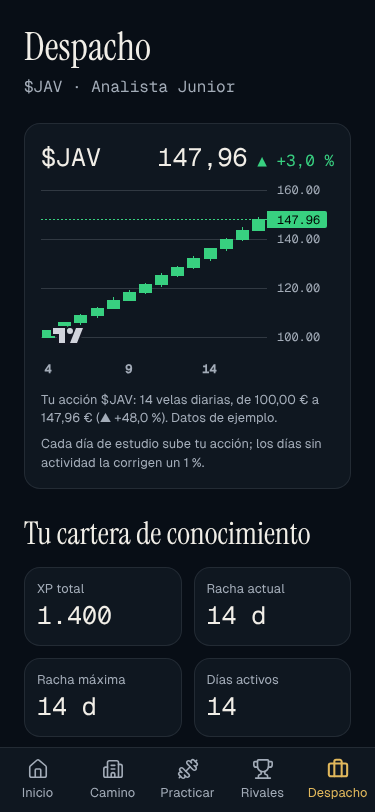
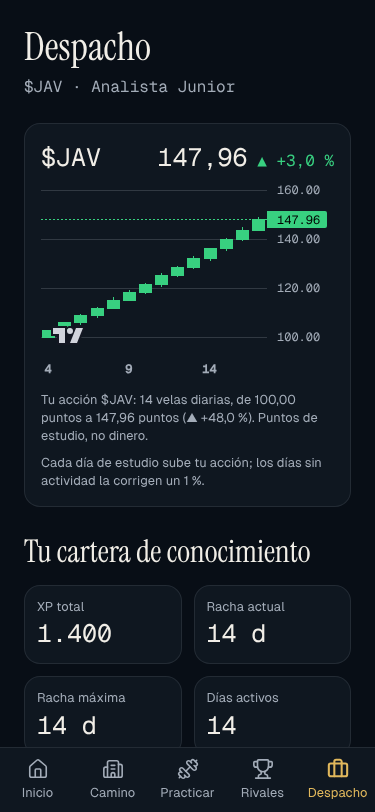
fix: peor caso de las pantallas de la Fase 2 (break-ui)
Compartir sin desbordar a 320 px, tu acción descrita en puntos (no euros ni datos de ejemplo), precio sin partirse, plurales reales y regresión e2e de peor caso.

Claude-Session: https://claude.ai/code/session_01CVegj8TkHSCjsDpifGKGPx

diff --git a/e2e/peor-caso.spec.ts b/e2e/peor-caso.spec.ts
@@ -1,0 +1,131 @@
+import { randomUUID } from 'node:crypto';
+import { mkdirSync } from 'node:fs';
+import { expect, test, type Page } from '@playwright/test';
+import { completeOnboarding } from './solver';
+
+/* Tarea 2.8 (break-ui): el peor caso realista entra por la misma frontera que los datos reales (una copia
+   importada) y recorre las pantallas nuevas de la Fase 2 a 320 px. Las capturas quedan en docs/capturas/2.8. */
+
+const ev = (type: string, payload: object, createdAt: string) => ({
+  id: randomUUID(),
+  type,
+  createdAt,
+  deviceId: 'test',
+  schemaVersion: 1,
+  tz: 'Europe/Madrid',
+  payload,
+});
+
+/** 400 días seguidos con mucho XP, iniciales anchas de 6 letras, conceptos de nombre largo fallados y sesiones de 60 min. */
+function worstCase(): string {
+  const day0 = Date.now() - 400 * 86_400_000;
+  const events = [
+    ev('settings_changed', { key: 'onboarded', value: true }, new Date(day0).toISOString()),
+    ev(
+      'settings_changed',
+      { key: 'tickerInitials', value: 'WMWMWM' },
+      new Date(day0).toISOString(),
+    ),
+  ];
+  for (let d = 0; d < 400; d++) {
+    const at = (m: number) => new Date(Date.now() - d * 86_400_000 - m * 60_000).toISOString();
+    events.push(ev('lesson_completed', { lessonId: 'n0-u1-l1', xp: 380, accuracy: 0.33 }, at(30)));
+    if (d < 20) {
+      const sid = randomUUID();
+      events.push(
+        ev(
+          'session_started',
+          {
+            sessionId: sid,
+            day: at(200).slice(0, 10),
+            minutes: 20,
+            blocks: [{ kind: 'briefing' }],
+          },
+          at(200),
+        ),
+        ev('session_completed', { sessionId: sid }, at(120)),
+      );
+      for (const [i, c] of ['fiscalidad-avanzada', 'ma-completo', 'valoracion-sectores'].entries())
+        events.push(
+          ev(
+            'exercise_answered',
+            {
+              exerciseId: `n0-u1-l1-e${i + 1}`,
+              lessonId: 'n0-u1-l1',
+              conceptIds: [c],
+              correct: d % 3 === 0,
+              timeMs: 4000,
+              xp: 0,
+              source: 'lesson',
+            },
+            at(60 + i),
+          ),
+        );
+    }
+  }
+  return JSON.stringify({
+    format: 'compuesto-backup',
+    version: 1,
+    exportedAt: new Date().toISOString(),
+    events,
+    content_reports: [],
+  });
+}
+
+const overflow = (page: Page) =>
+  page.evaluate(() => document.documentElement.scrollWidth - document.documentElement.clientWidth);
+
+test('peor caso a 320 px: Inicio, Rivales, Despacho y Compartir sin desbordar', async ({
+  page,
+}) => {
+  test.setTimeout(180_000);
+  await page.emulateMedia({ reducedMotion: 'reduce' });
+  await page.setViewportSize({ width: 320, height: 720 });
+  await completeOnboarding(page);
+  await page.goto('/#/despacho/ajustes');
+  await page.setInputFiles('input[type="file"]', {
+    name: 'peor.json',
+    mimeType: 'application/json',
+    buffer: Buffer.from(worstCase()),
+  });
+  await page.getByRole('button', { name: 'Reemplazar mi progreso' }).click();
+  await expect(page.getByText('Copia importada.')).toBeVisible({ timeout: 90_000 });
+  mkdirSync('docs/capturas/2.8', { recursive: true });
+  for (const [hash, name] of [
+    ['/#/', 'inicio'],
+    ['/#/rivales', 'rivales'],
+    ['/#/despacho', 'despacho'],
+    ['/#/despacho/compartir', 'compartir'],
+  ] as const) {
+    await page.goto(hash);
+    await page.reload();
+    await expect(page.getByRole('navigation', { name: 'Navegación principal' })).toBeVisible();
+    await page.waitForTimeout(800);
+    await page.screenshot({ path: `docs/capturas/2.8/peor-caso-${name}-320.png`, fullPage: true });
+    expect(await overflow(page), `${name}: desbordamiento horizontal`).toBeLessThanOrEqual(0);
+  }
+  // ritmo alto pero constante: la liga se adapta a tu media, así que asciendes al principio y luego te estabilizas
+  await page.goto('/#/rivales');
+  await expect(page.getByTestId('division')).toContainText(/División (Plata|Oro|Platino)/);
+  await expect(page.getByTestId('weekly-close')).toBeVisible();
+  // conceptos de nombre largo listados enteros (sin truncar)
+  await page.goto('/#/despacho');
+  await expect(page.getByText('Fiscalidad avanzada (720/721, doble imposición)')).toBeVisible();
+  // tu acción se describe en puntos, nunca en euros ni como «datos de ejemplo»
+  const stock = page.getByTestId('my-stock');
+  await expect(stock).toContainText('puntos');
+  await expect(stock).not.toContainText('€');
+  await expect(stock).not.toContainText('Datos de ejemplo');
+  // el precio nunca se parte por la mitad: una sola línea
+  const price = page.getByTestId('stock-price');
+  const box = await price.boundingBox();
+  const lh = await price.evaluate((el) => parseFloat(getComputedStyle(el).lineHeight));
+  expect(box!.height).toBeLessThanOrEqual(lh * 1.2);
+  // la tarjeta con Leyenda, racha de 400 y XP de seis cifras
+  await page.goto('/#/despacho/compartir');
+  const [download] = await Promise.all([
+    page.waitForEvent('download', { timeout: 30_000 }),
+    page.getByRole('button', { name: 'Descargar PNG' }).click(),
+  ]);
+  await download.saveAs('docs/capturas/2.8/peor-caso-tarjeta.png');
+});

diff --git a/src/components/CandleChart.tsx b/src/components/CandleChart.tsx
@@ -15,6 +15,10 @@ interface Props {
   candles: Candle[];
   label: string;
   height?: number;
+  /** Cómo se leen los precios en la descripción textual (por defecto, euros). */
+  formatValue?: (n: number) => string;
+  /** Nota final de la descripción; por defecto avisa de que son datos de ejemplo. Cadena vacía para omitirla. */
+  note?: string;
 }
 
 const cssVar = (name: string) =>
@@ -37,7 +41,13 @@ const chartColor = (name: string) => {
 };
 
 /** Velas con lightweight-charts. Descripción textual para lector de pantalla (CLAUDE.md §10). */
-export function CandleChart({ candles, label, height = 240 }: Props) {
+export function CandleChart({
+  candles,
+  label,
+  height = 240,
+  formatValue = formatEur,
+  note = 'Datos de ejemplo.',
+}: Props) {
   const ref = useRef<HTMLDivElement>(null);
   const chartRef = useRef<IChartApi | null>(null);
   const { theme } = useTheme();
@@ -86,7 +96,7 @@ export function CandleChart({ candles, label, height = 240 }: Props) {
   const pct = first && last ? ((last.close - first.open) / first.open) * 100 : 0;
   const summary =
     first && last
-      ? `${label}: ${candles.length} velas diarias, de ${formatEur(first.open)} a ${formatEur(last.close)} (${formatDelta(pct)}). Datos de ejemplo.`
+      ? `${label}: ${candles.length} velas diarias, de ${formatValue(first.open)} a ${formatValue(last.close)} (${formatDelta(pct)}).${note ? ` ${note}` : ''}`
       : label;
 
   return (

diff --git a/src/components/StockPanel.tsx b/src/components/StockPanel.tsx
@@ -23,13 +23,13 @@ export function StockPanel({
       className="bg-surface-1 border-line grid min-w-0 grid-cols-[minmax(0,1fr)] gap-2 rounded-[var(--radius-md)] border p-4"
       data-testid="my-stock"
     >
-      <div className="flex items-baseline justify-between gap-3">
+      <div className="flex flex-wrap items-baseline justify-between gap-x-3 gap-y-1">
         <h2 id="stock-title" className="text-xl" style={{ fontFamily: 'var(--font-mono)' }}>
           {stock.ticker}
         </h2>
         {candles.length > 0 && (
-          <p data-num className="min-w-0 text-right break-words">
-            <span className="text-xl break-all" data-testid="stock-price">
+          <p data-num className="ml-auto text-right whitespace-nowrap">
+            <span className="text-xl" data-testid="stock-price">
               {formatNumber(stock.price, 2)}
             </span>{' '}
             <span className={up ? 'text-bull' : 'text-bear'}>
@@ -46,6 +46,8 @@ export function StockPanel({
             <CandleChart
               candles={candles}
               label={t('stock.label', { ticker: stock.ticker })}
+              formatValue={(n) => t('stock.points', { n: formatNumber(n, 2) })}
+              note={t('stock.note')}
               height={height}
             />
           </Suspense>

diff --git a/src/features/share/Compartir.tsx b/src/features/share/Compartir.tsx
@@ -89,7 +89,7 @@ export function Compartir({ data }: { data: AppData }) {
       <h1 className="text-3xl">{t('share.title')}</h1>
       <p className="text-text-2 text-sm">{t('share.intro')}</p>
 
-      <fieldset className="grid gap-2">
+      <fieldset className="grid min-w-0 gap-2">
         <legend className="mb-1 text-lg">{t('share.format')}</legend>
         <div role="radiogroup" aria-label={t('share.format')} className="flex flex-wrap gap-2">
           {CARD_FORMATS.map((f) => (
@@ -105,7 +105,7 @@ export function Compartir({ data }: { data: AppData }) {
           ))}
         </div>
       </fieldset>
-      <fieldset className="grid gap-2">
+      <fieldset className="grid min-w-0 gap-2">
         <legend className="mb-1 text-lg">{t('share.style')}</legend>
         <div role="radiogroup" aria-label={t('share.style')} className="flex flex-wrap gap-2">
           {CARD_STYLES.map((s) => (
@@ -122,7 +122,7 @@ export function Compartir({ data }: { data: AppData }) {
         </div>
       </fieldset>
 
-      <div ref={box} className="w-full max-w-sm justify-self-center">
+      <div ref={box} className="w-full max-w-sm min-w-0 justify-self-center">
         <div
           role="img"
           aria-label={summary}

diff --git a/src/features/practicar/Rivales.tsx b/src/features/practicar/Rivales.tsx
@@ -43,7 +43,7 @@ function Row({ row, index, animate }: { row: StandingRow; index: number; animate
       </span>
       <span className="grid min-w-0 flex-1">
         <span className={row.me ? 'font-semibold' : ''}>{row.me ? t('rivals.you') : row.name}</span>
-        {p && <span className="text-text-2 truncate text-xs">{t(`rivals.personality.${p}`)}</span>}
+        {p && <span className="text-text-2 text-xs">{t(`rivals.personality.${p}`)}</span>}
       </span>
       <span className="grid justify-items-end text-sm">
         <span data-num>{t('rivals.xp', { xp: formatNumber(row.xp) })}</span>

diff --git a/tests/screens.test.tsx b/tests/screens.test.tsx
@@ -99,7 +99,7 @@ describe('pantallas principales', () => {
     expect(screen.getByText('Precisión').nextSibling).toHaveTextContent('50 %');
     expect(screen.getByText('$JAV ·', { exact: false })).toBeInTheDocument();
     const failed = screen.getByRole('heading', { name: 'Ejercicios más fallados' }).parentElement!;
-    expect(failed).toHaveTextContent('1 fallo(s) en 1 intento(s)');
+    expect(failed).toHaveTextContent('1 fallo en 1 intento');
     expect(screen.getByRole('link', { name: 'Glosario' })).toHaveAttribute(
       'href',
       '#/despacho/glosario',

diff --git a/src/features/despacho/Despacho.tsx b/src/features/despacho/Despacho.tsx
@@ -144,7 +144,8 @@ export function Despacho({ data }: { data: AppData }) {
                   <p>{info?.prompt ?? f.exerciseId}</p>
                   <p className="text-text-2" data-num>
                     {info?.where ? `${info.where} · ` : ''}
-                    {f.fails} fallo(s) en {f.attempts} intento(s)
+                    {f.fails} {f.fails === 1 ? 'fallo' : 'fallos'} en {f.attempts}{' '}
+                    {f.attempts === 1 ? 'intento' : 'intentos'}
                   </p>
                 </li>
               );

diff --git a/playwright.config.ts b/playwright.config.ts
@@ -57,6 +57,7 @@ export default defineConfig({
         'compartir.spec.ts',
         'rivales.spec.ts',
         'despliegue.spec.ts',
+        'peor-caso.spec.ts',
       ],
       use: { baseURL: 'http://localhost:4173', launchOptions },
     },

diff --git a/DECISIONES.md b/DECISIONES.md
@@ -292,3 +292,13 @@ Un subagente nuevo solo se registra al reiniciar Claude Code, así que la prueba
 - **Rendimiento Lighthouse móvil 79–83 (< 90):** criterio de aceptación **no cumplido**; es la deuda de la Fase 1 (arranque ≈215 KB gz). Medir en el despliegue real antes de decidir si merece la pena la palanca (zod/mini, i18n propio…).
 - **Pasos de cuenta Cloudflare:** en `docs/DESPLIEGUE.md`; la checklist (copia, instalación en móvil, .ics) la marca Javier en su dispositivo.
 - Pendiente de la revisión de cierre de fase (skills `review-animations`, `animation-performance`, `break-ui`, `/impeccable harden`): ver informe.
+
+## 2.8 — break-ui de las pantallas nuevas de la Fase 2
+Peor caso realista importado como copia (frontera de datos real, no el componente): 400 días con 380 XP/día, iniciales anchas de 6 letras (`WMWMWM`), conceptos de nombre largo fallados, sesiones de 60 min. Regresión fija en `e2e/peor-caso.spec.ts` a 320 px; capturas en `docs/capturas/2.8/`.
+- **Arreglado (Broken):** Compartir desbordaba 24 px a 320 px (el contenedor de la vista previa medía su propio contenido: `min-width: auto` en un hijo de grid) → `min-w-0`.
+- **Arreglado (Broken, nada falso en pantalla):** la descripción textual de tu acción decía «46.345,04 € … Datos de ejemplo»: euros y «ejemplo» eran falsos. `CandleChart` acepta formato y nota; tu acción se describe en «puntos» con «Puntos de estudio, no dinero».
+- **Arreglado (Ugly):** el precio de la acción se partía por la mitad (`259.449,` / `98`) → la fila pasa a dos líneas y el precio nunca se corta.
+- **Arreglado (Ugly):** «fallo(s)… intento(s)» → plurales reales. Personalidad de los rivales truncada sin forma de leerla → se ajusta a dos líneas.
+- **Aguantó:** clasificación con XP de 4 cifras, «Tú» destacado, ▲▼ con texto, tarjeta 1080×1920 con Leyenda, racha 400 y XP de 6 cifras (revisada a ojo), estadísticas con nombres de concepto de 47 caracteres.
+- **Decisión para Javier:** con un ritmo alto pero **constante** la liga te estabiliza en Oro/Platino (los rivales siguen tu media): la liga premia mejorar respecto a ti, no el volumen absoluto. Si prefieres que un ritmo alto sostenido lleve a Wall Street, el cambio es fijar la media con un techo (p. ej. 700 XP/semana).
+- No hecho: el interruptor visual «Demo / Peor caso» que propone la skill; se sustituye por la copia de peor caso en e2e (misma frontera de datos, y queda como test de regresión).
